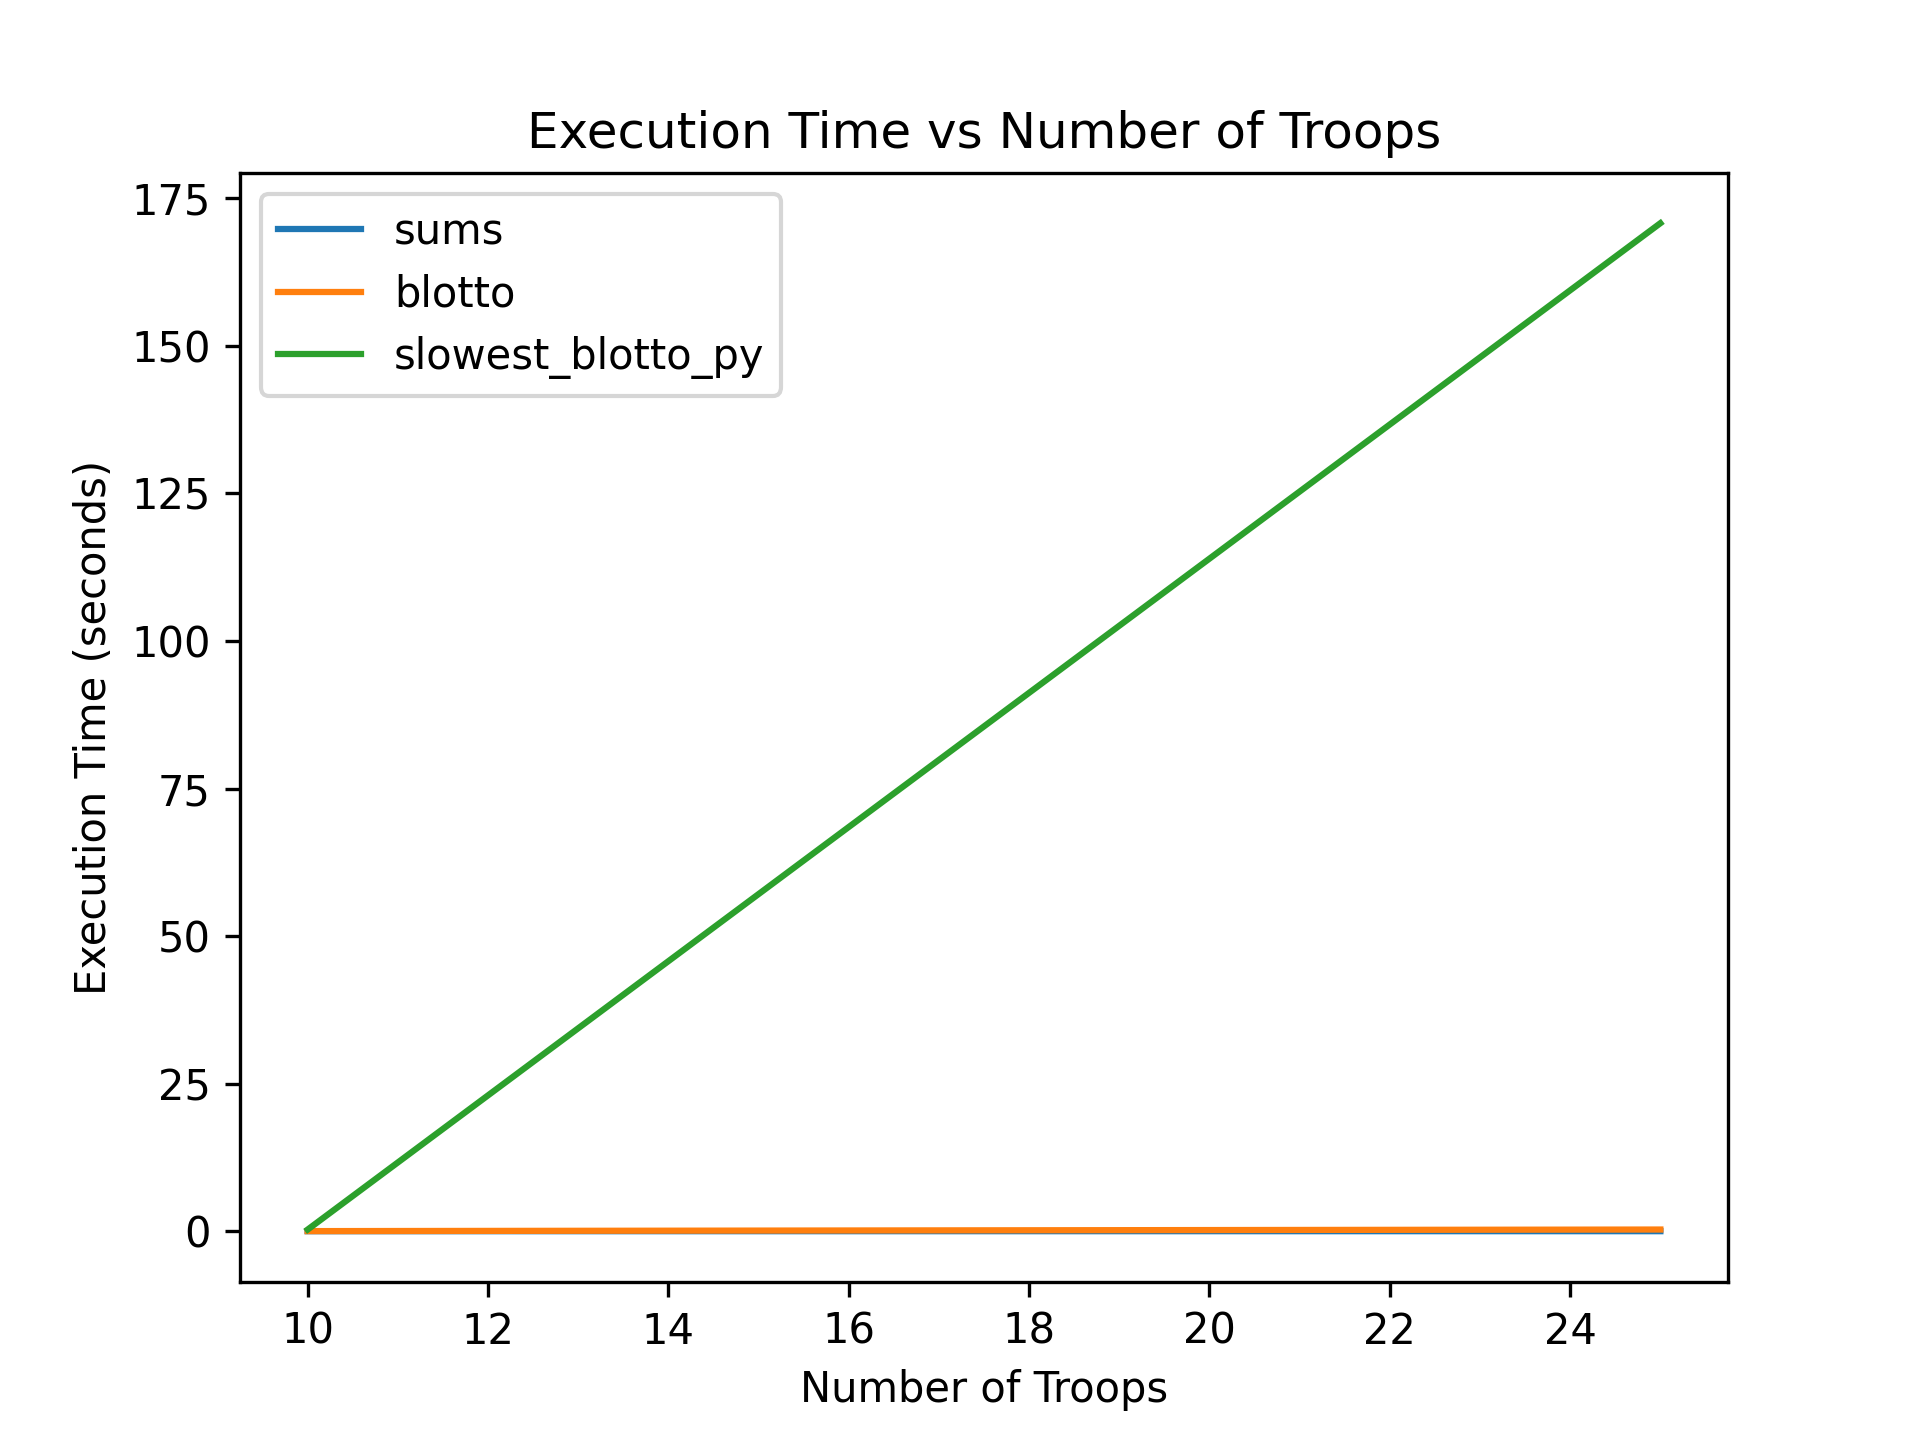
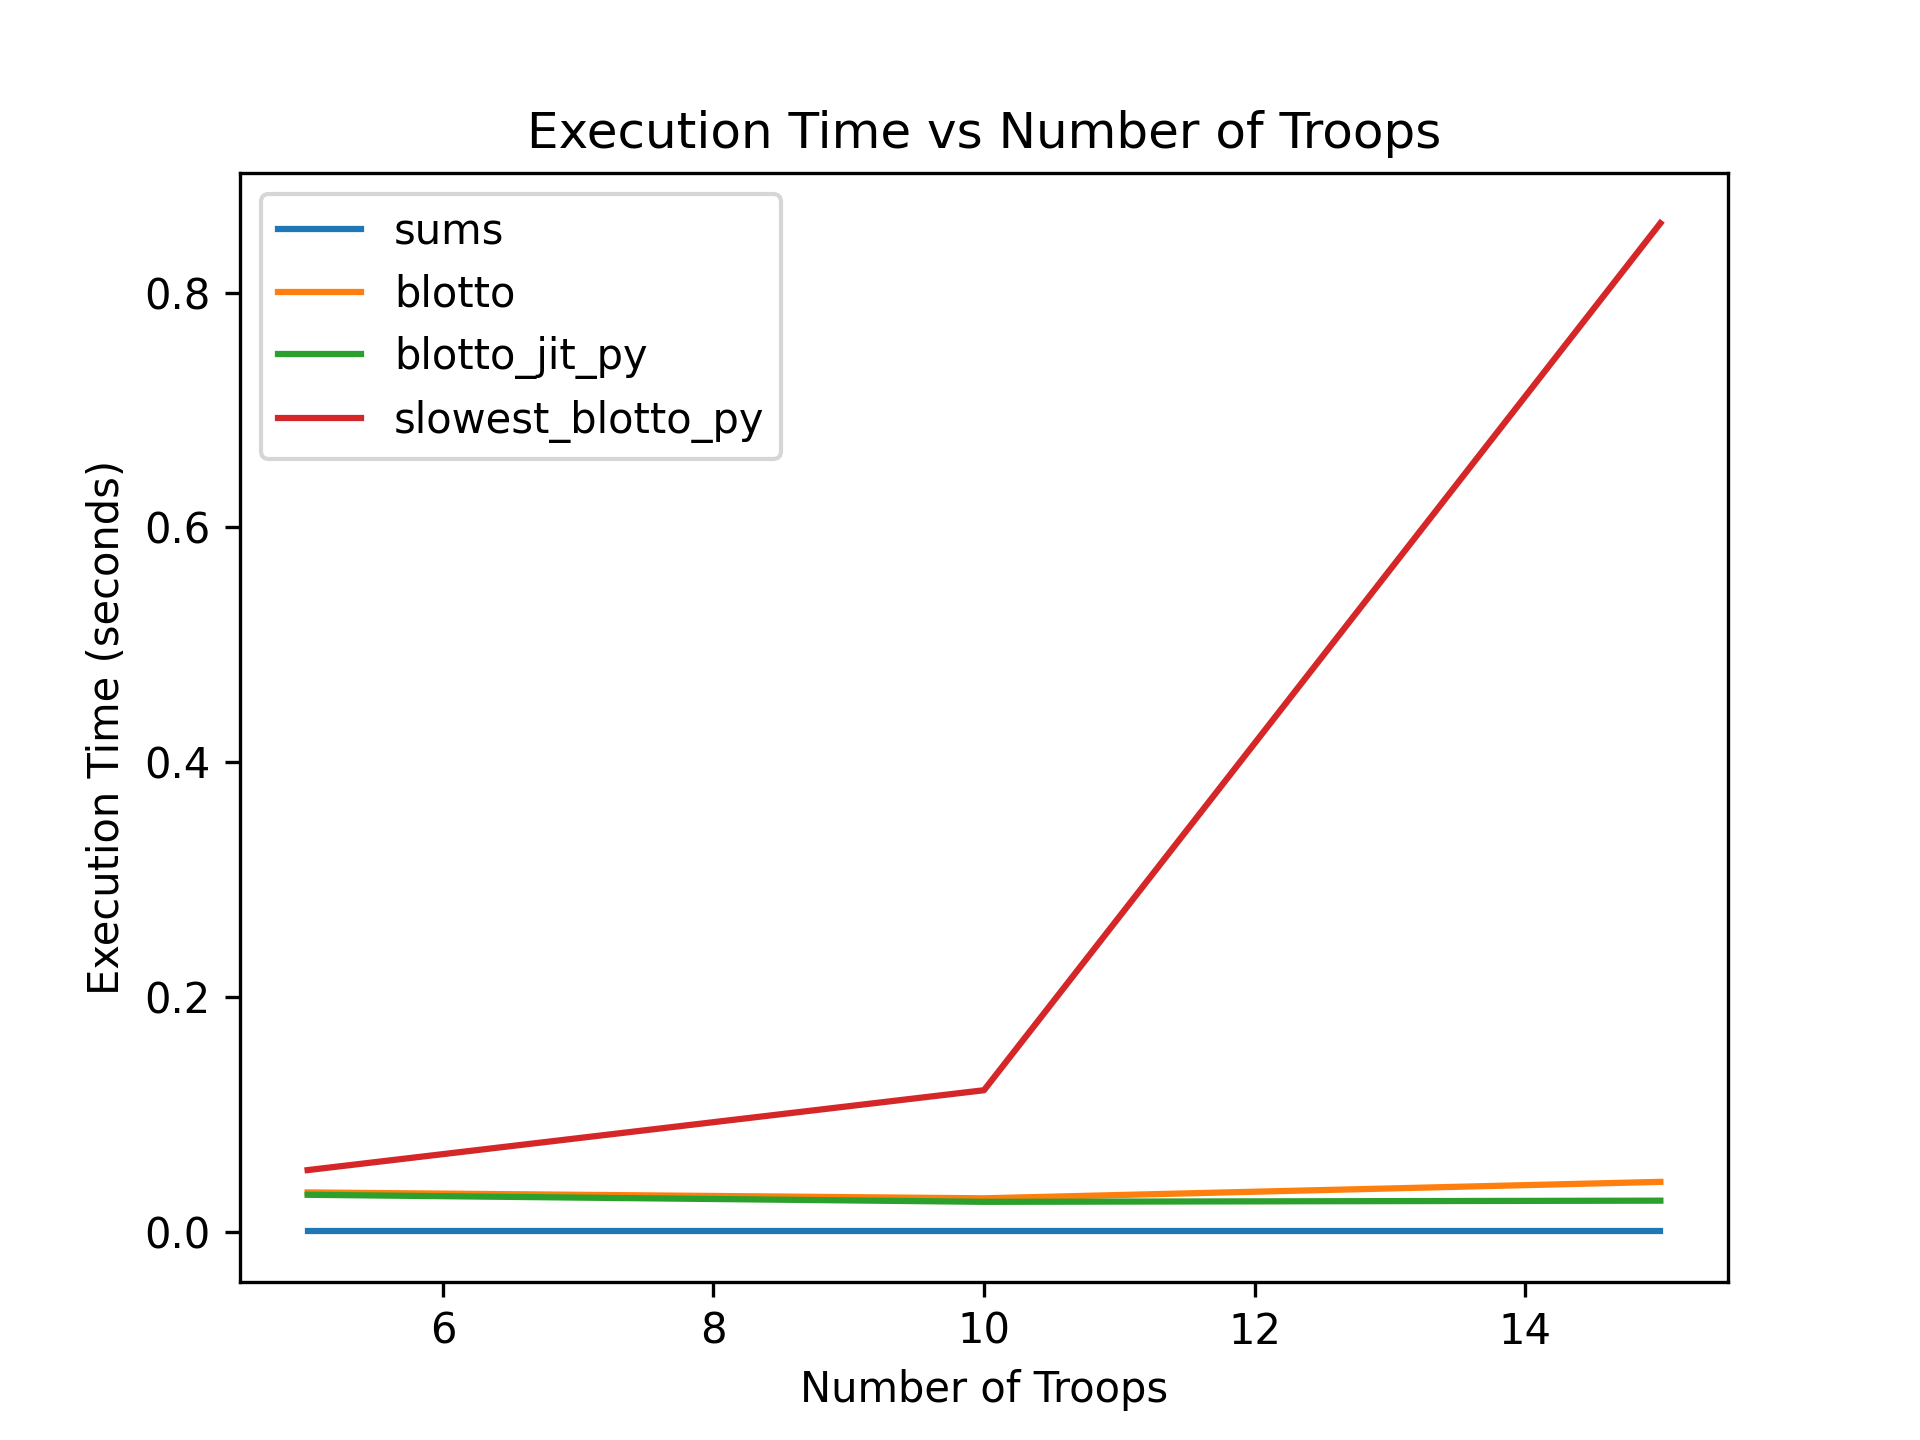
add numbah code to excution profiling, updated notes & readme

diff --git a/.ipynb_checkpoints/plot_profiling-checkpoint.py b/.ipynb_checkpoints/plot_profiling-checkpoint.py
@@ -18,8 +18,9 @@ def extract_time_from_file(filename):
 # CASTLES = 2
 # TROOPS = [25, 50, 75, 100, 150, 300, 600]
 CASTLES = 3
-TROOPS = [10, 25]
-programs = ['sums', 'blotto', 'slowest_blotto_py']
+# 10, 25
+TROOPS = [5, 10, 15]
+programs = ['sums', 'blotto', 'blotto_jit_py', 'slowest_blotto_py']
 
 # Prepare the data 
 times = {program: [] for program in programs}

diff --git a/plot_profiling.py b/plot_profiling.py
@@ -18,8 +18,9 @@ def extract_time_from_file(filename):
 # CASTLES = 2
 # TROOPS = [25, 50, 75, 100, 150, 300, 600]
 CASTLES = 3
-TROOPS = [10, 25]
-programs = ['sums', 'blotto', 'slowest_blotto_py']
+# 10, 25
+TROOPS = [5, 10, 15]
+programs = ['sums', 'blotto', 'blotto_jit_py', 'slowest_blotto_py']
 
 # Prepare the data 
 times = {program: [] for program in programs}

diff --git a/notes/02_05_2024.md b/notes/02_05_2024.md
@@ -1,12 +1,17 @@
-
-- wrote tournament code in C
-    - refactored the read_strategies method into the tournament method
-        - note that in order to pass a 2D multidimensional array to a function
-       in C, you must specify the number of entries for every index after the first.
-    - notice that we cannot actually compute the max number of configurations
-      because the `long long` integer is not big enough for the expressions in the computation.
-        - this limits us because now we cannot check the number of configurations read in from
-          the file to the expected number of configurations
+- wrote `blotto_jit.py` using numbah and joblib
+- rewrote `slowest_blotto.py` code in C
+    - Within that C code, after writing the first version, I refactored the
+    read_strategies method to be included within the tournament method.
+        - I also learned that in order to pass a 2D multidimensional array to a function
+       in C, you must specify the number of entries for every dimension of that array, excluding the first dimension.
+    - Notice that we cannot actually compute the max number of configurations.
+      This is because the `long long` integer is not big enough for the expressions in the computation.
+        - This limits us because now we cannot check the number of configurations read in from
+          the file to the expected number of configurations within the C code. This can be overcome with a
+          proof for the code.
 - wrote Makefile
-- wrote command line interface for both python and C code
-- wrote execution profiling code
+    - began writing documentation for Makefile in README.md
+    - wrote command line interface for both python and C code
+    - wrote Make command to record execution profiling metrics
+        - wrote `plot_profiling.py` to extract, visualize the execution profiling metrics in `execution_times.png`,
+           for the purpose of comparing the code

diff --git a/notes/.ipynb_checkpoints/02_05_2024-checkpoint.md b/notes/.ipynb_checkpoints/02_05_2024-checkpoint.md
@@ -1,10 +1,17 @@
-
-- wrote tournament code in C
-    - refactored the read_strategies method into the tournament method
-        - note that in order to pass a 2D multidimensional array to a function
-       in C, you must specify the number of entries for every index after the first.
-    - notice that we cannot actually compute the max number of configurations
-      because the `long long` integer is not big enough for the expressions in the computation.
+- wrote `blotto_jit.py` using numbah and joblib
+- rewrote `slowest_blotto.py` code in C
+    - Within that C code, after writing the first version, I refactored the
+    read_strategies method to be included within the tournament method.
+        - I also learned that in order to pass a 2D multidimensional array to a function
+       in C, you must specify the number of entries for every dimension of that array, excluding the first dimension.
+    - Notice that we cannot actually compute the max number of configurations.
+      This is because the `long long` integer is not big enough for the expressions in the computation.
+        - This limits us because now we cannot check the number of configurations read in from
+          the file to the expected number of configurations within the C code. This can be overcome with a
+          proof for the code.
 - wrote Makefile
-- wrote command line interface for both python and C code
-- wrote execution profiling code
+    - began writing documentation for Makefile in README.md
+    - wrote command line interface for both python and C code
+    - wrote Make command to record execution profiling metrics
+        - wrote `plot_profiling.py` to extract, visualize the execution profiling metrics in `execution_times.png`,
+           for the purpose of comparing the code

diff --git a/.ipynb_checkpoints/README-checkpoint.md b/.ipynb_checkpoints/README-checkpoint.md
@@ -15,8 +15,6 @@ I am interested in multiple directions:
     - We can represent the relationship between configurations utilizing a directed graph. 
     What methods can we apply to the graph?
 
+You can follow along with my progress through the [notes](notes/) directory.
 
-
-
-
-
+The files of importance are `slowest_blotto.py`, `blotto.jit.py`, `sums.c`, `blotto.c`, `Makefile`, and `plot_profiling.py`.

diff --git a/README.md b/README.md
@@ -15,8 +15,6 @@ I am interested in multiple directions:
     - We can represent the relationship between configurations utilizing a directed graph. 
     What methods can we apply to the graph?
 
+You can follow along with my progress through the [notes](notes/) directory.
 
-
-
-
-
+The files of importance are `slowest_blotto.py`, `blotto.jit.py`, `sums.c`, `blotto.c`, `Makefile`, and `plot_profiling.py`.
